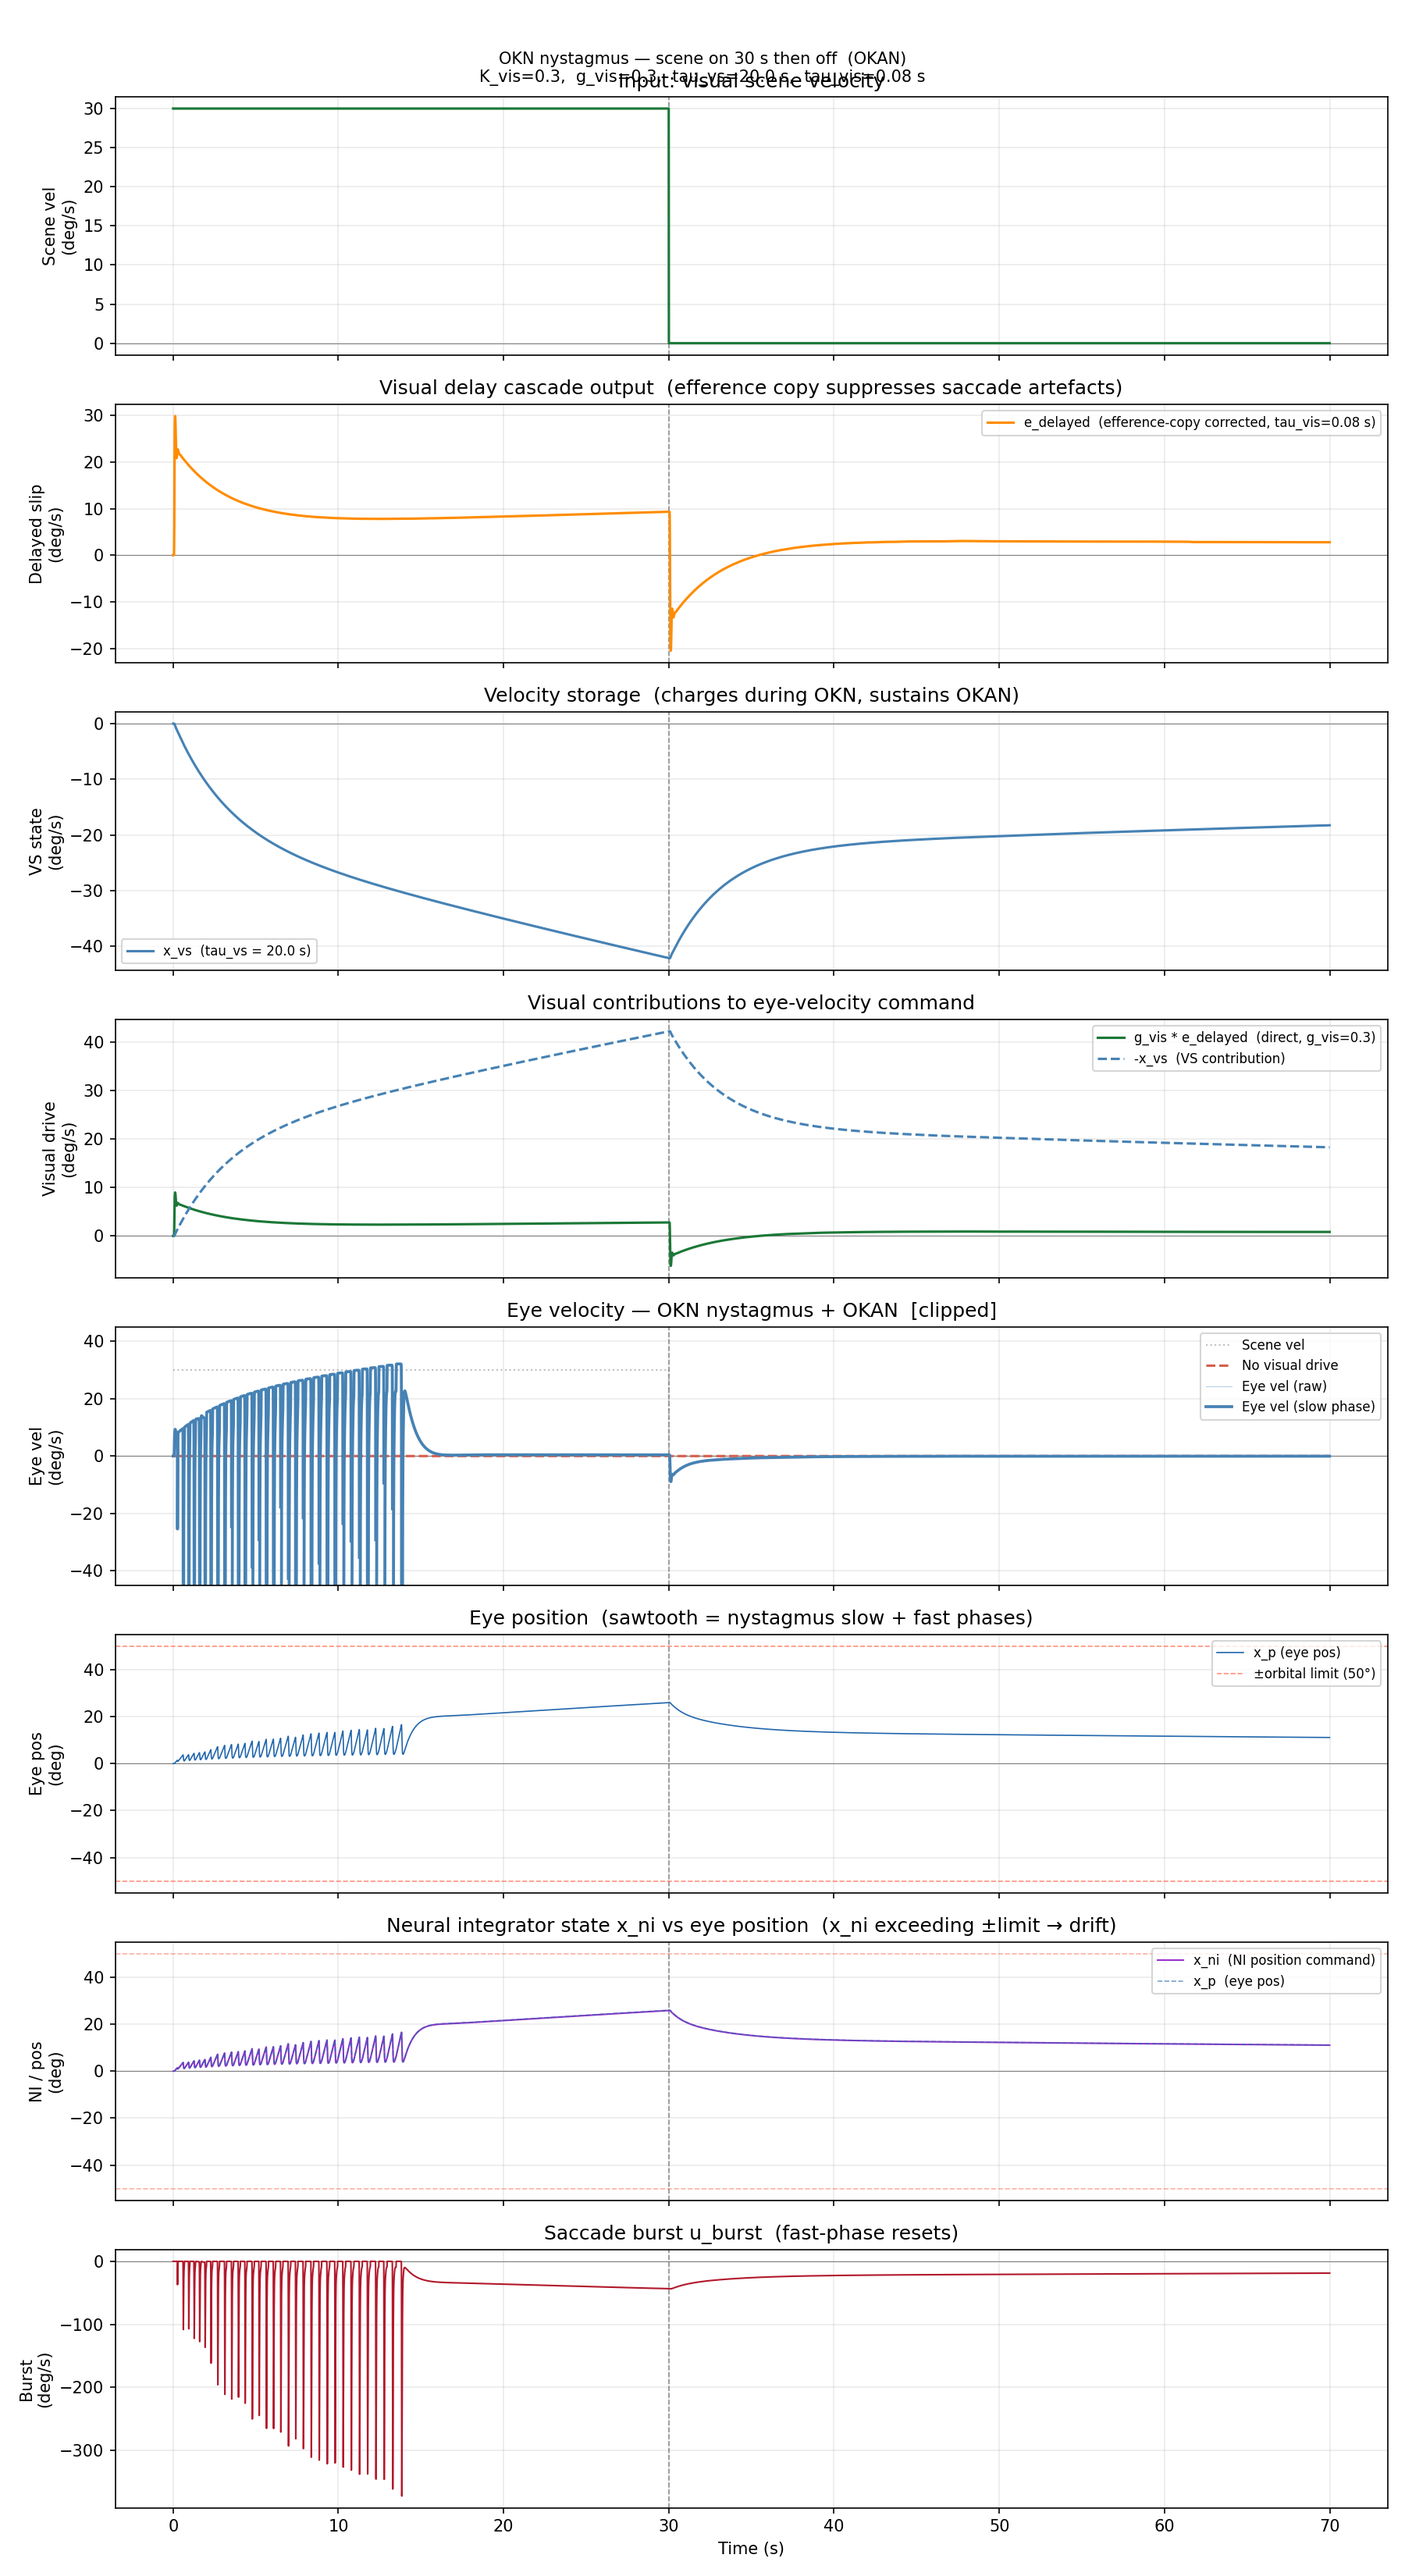
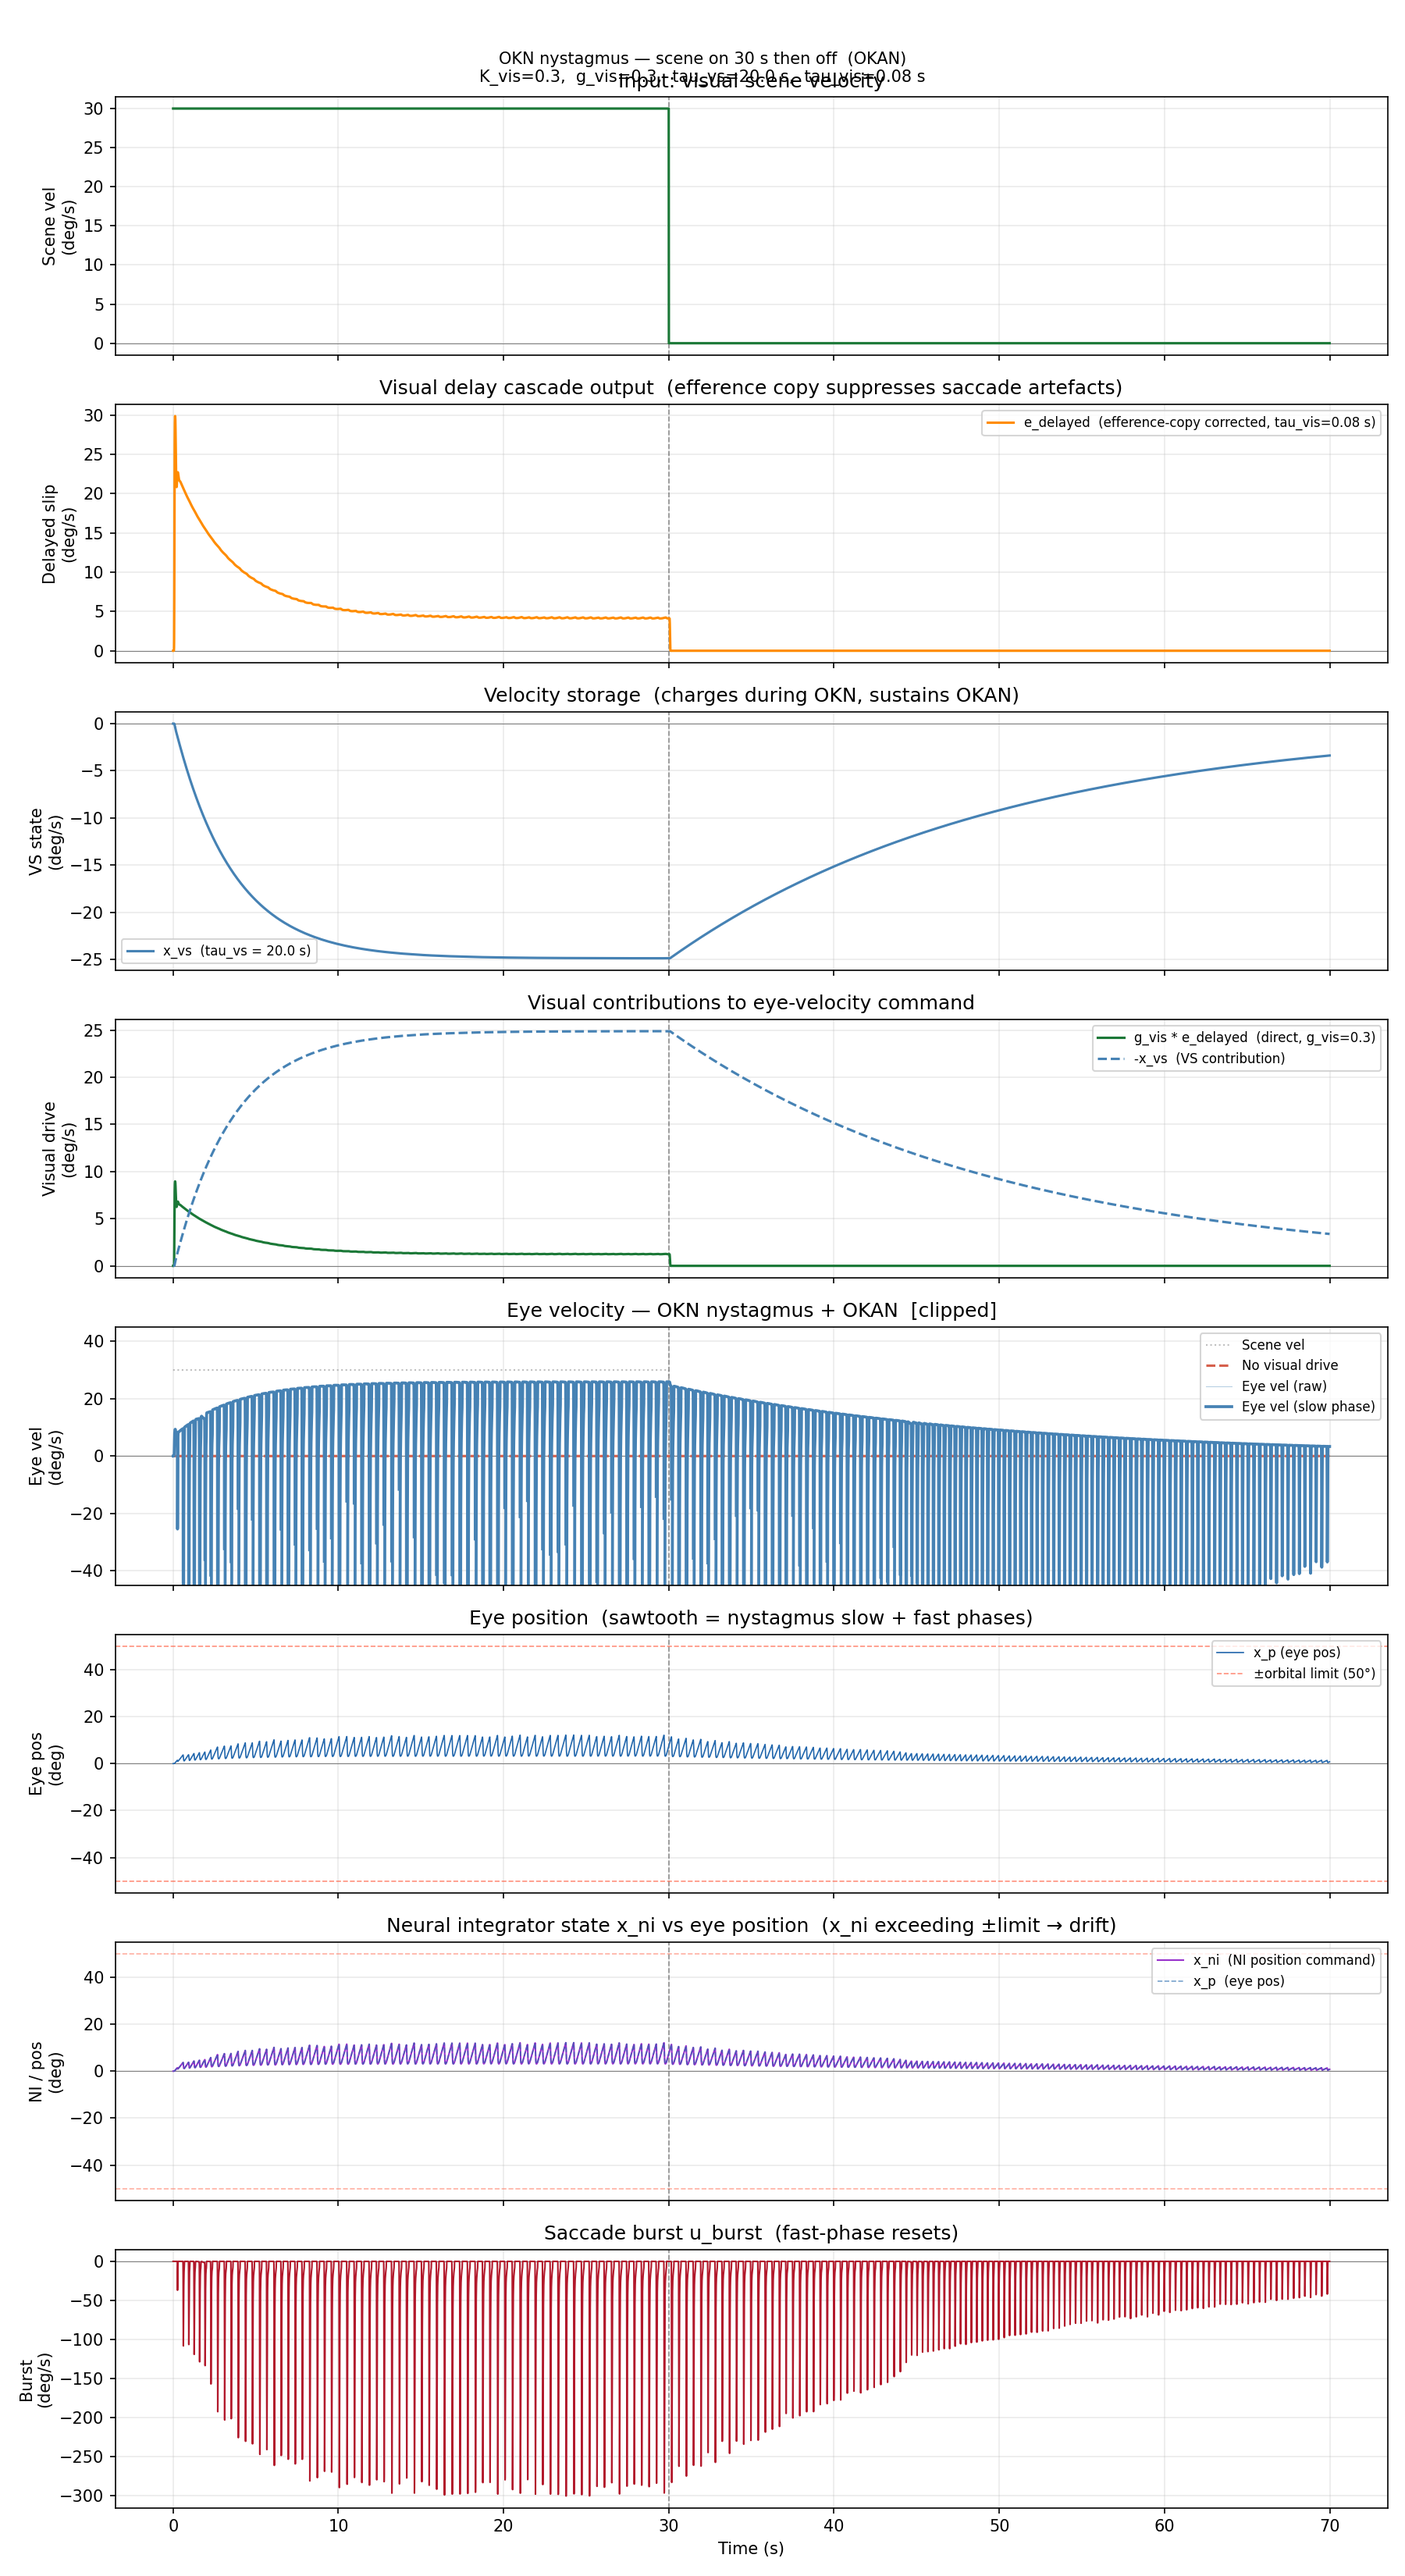
maybe okr works well now

diff --git a/scripts/demo_vor.py b/scripts/demo_vor.py
@@ -230,18 +230,23 @@ def demo_okr_cascade():
     t_arr    = jnp.arange(0.0, total_dur, 1.0 / sr)
     v_sc     = jnp.where(t_arr < on_dur, scene_vel, 0.0)
     v_scene  = jnp.zeros((len(t_arr), 3)).at[:, 0].set(v_sc)
-    stim_okn = Stimulus(t_arr, omega=jnp.zeros(len(t_arr)), v_scene=v_scene)
+    # scene_present: 1 while scene moves, 0 after scene off (darkness → pure OKAN at tau_vs).
+    # Without this, scene_gain=1 with v_scene=0 creates retinal slip from OKAN eye motion,
+    # causing visual suppression of OKAN (TC ≈ 3 s instead of 20 s).
+    scene_present = jnp.where(t_arr < on_dur, 1.0, 0.0)
     max_s    = int(total_dur / 0.001) + 500
 
     T_okn  = len(t_arr)
-    states = simulate(theta_okn, stim_okn,
+    states = simulate(theta_okn, t_arr,
+                      v_scene_array=v_scene,
+                      scene_present_array=scene_present,
                       # No explicit fixation target (OKN: distributed scene, no single target).
                       # Fast phases are still driven by the implicit straight-ahead target:
                       # e_pos_delayed ≈ −x_p, so the saccade generator fires whenever the
                       # eye drifts from center — classic OKN nystagmus sawtooth.
                       max_steps=max_s, return_states=True)
-    t_np   = np.array(stim_okn.t)
-    dt     = float(stim_okn.dt)
+    t_np   = np.array(t_arr)
+    dt     = 1.0 / sr
     burst  = _extract_burst(states, theta_okn)
 
     x_vis = np.array(states[:, _IDX_VIS])
@@ -256,7 +261,9 @@ def demo_okr_cascade():
     SPV_CLIP     = 80.0   # deg/s; clips fast-phase peaks (>80), shows slow phase between
     spv          = np.where(np.abs(eye_vel) < SPV_CLIP, eye_vel, np.nan)
 
-    eye_no_vis = simulate(theta_no_vis, stim_okn,
+    eye_no_vis = simulate(theta_no_vis, t_arr,
+                          v_scene_array=v_scene,
+                          scene_present_array=scene_present,
                           target_present_array=jnp.zeros(T_okn),
                           max_steps=max_s)[:, 0]
     ev_no_vis  = np.gradient(np.array(eye_no_vis), dt)

diff --git a/oculomotor/models/ocular_motor_simulator.py b/oculomotor/models/ocular_motor_simulator.py
@@ -261,14 +261,16 @@ def ODE_ocular_motor(t, x, args):
     dx_p,  _   = plant.step(x_p, u_p, theta)
 
     # ── Efference copy: NI+plant copy driven by burst only ───────────────────
-    dx_ec, w_burst_pred = ec.step(x_ec, u_burst, theta)
+    dx_ec, _ = ec.step(x_ec, u_burst, theta)   # integrate state; output replaced below
 
     # ── Retinal signals (position error + velocity slip) → visual delay ──────
     e_pos  = retina.target_to_angle(p_target) - q_head - x_p          # position error (deg)
-    # Retinal slip: gated by scene_gain only (0 = dark, 1 = full scene).
-    # Efference copy w_burst_pred cancels burst-driven eye velocity from dx_p,
-    # so VS receives only scene-driven slip regardless of saccade activity.
-    e_slip = scene_gain * (w_scene - w_head - dx_p + w_burst_pred)
+    # Retinal slip: the burst enters dx_p as a direct feedthrough (via the NI
+    # tau_p correction: u_p = x_ni + tau_p*u_vel).  Cancelling with w_burst_pred = u_burst
+    # removes exactly this contribution, leaving only scene-driven and slow-phase slip.
+    # The full state-based efference copy (ec module) creates a spurious post-burst
+    # residual from x_pc overshoot, so we use only the direct feedthrough here.
+    e_slip = scene_gain * (w_scene - w_head - dx_p + u_burst)
     dx_vis, _, _ = visual_delay.step(x_vis, e_slip, e_pos, theta)
 
     return jnp.concatenate([dx_c, dx_vs, dx_ni, dx_p, dx_vis, dx_sg, dx_ec])
